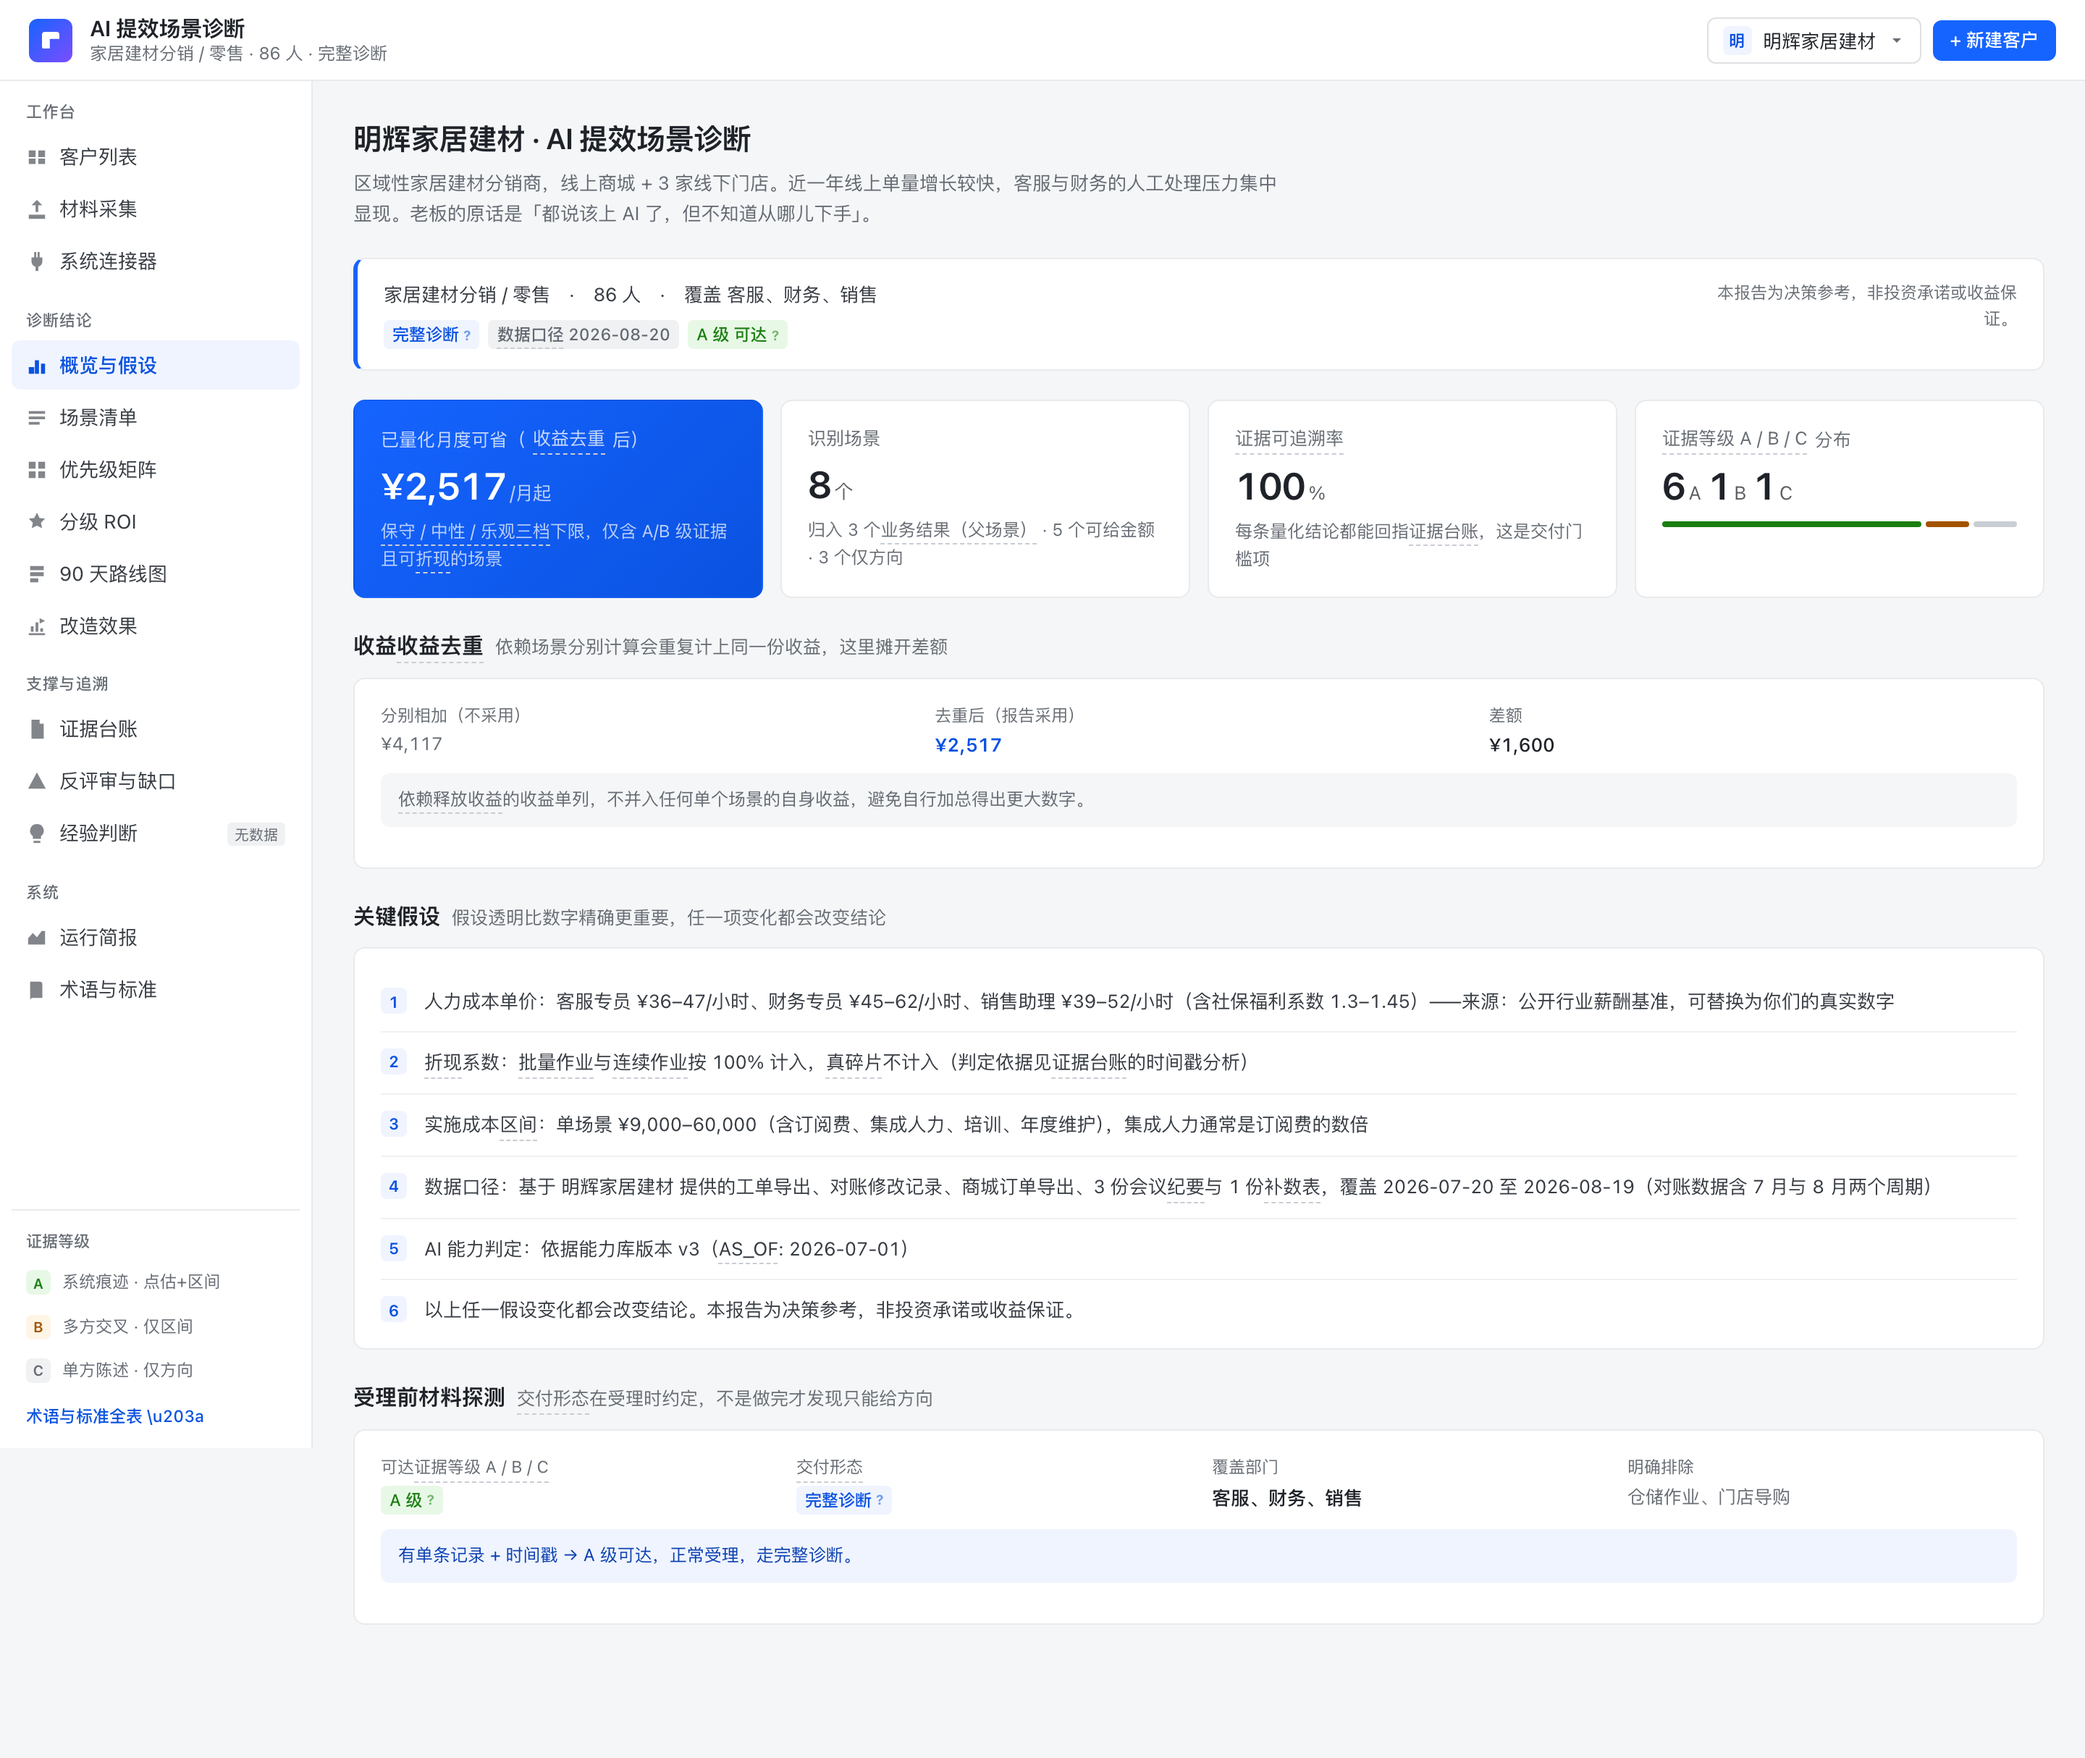
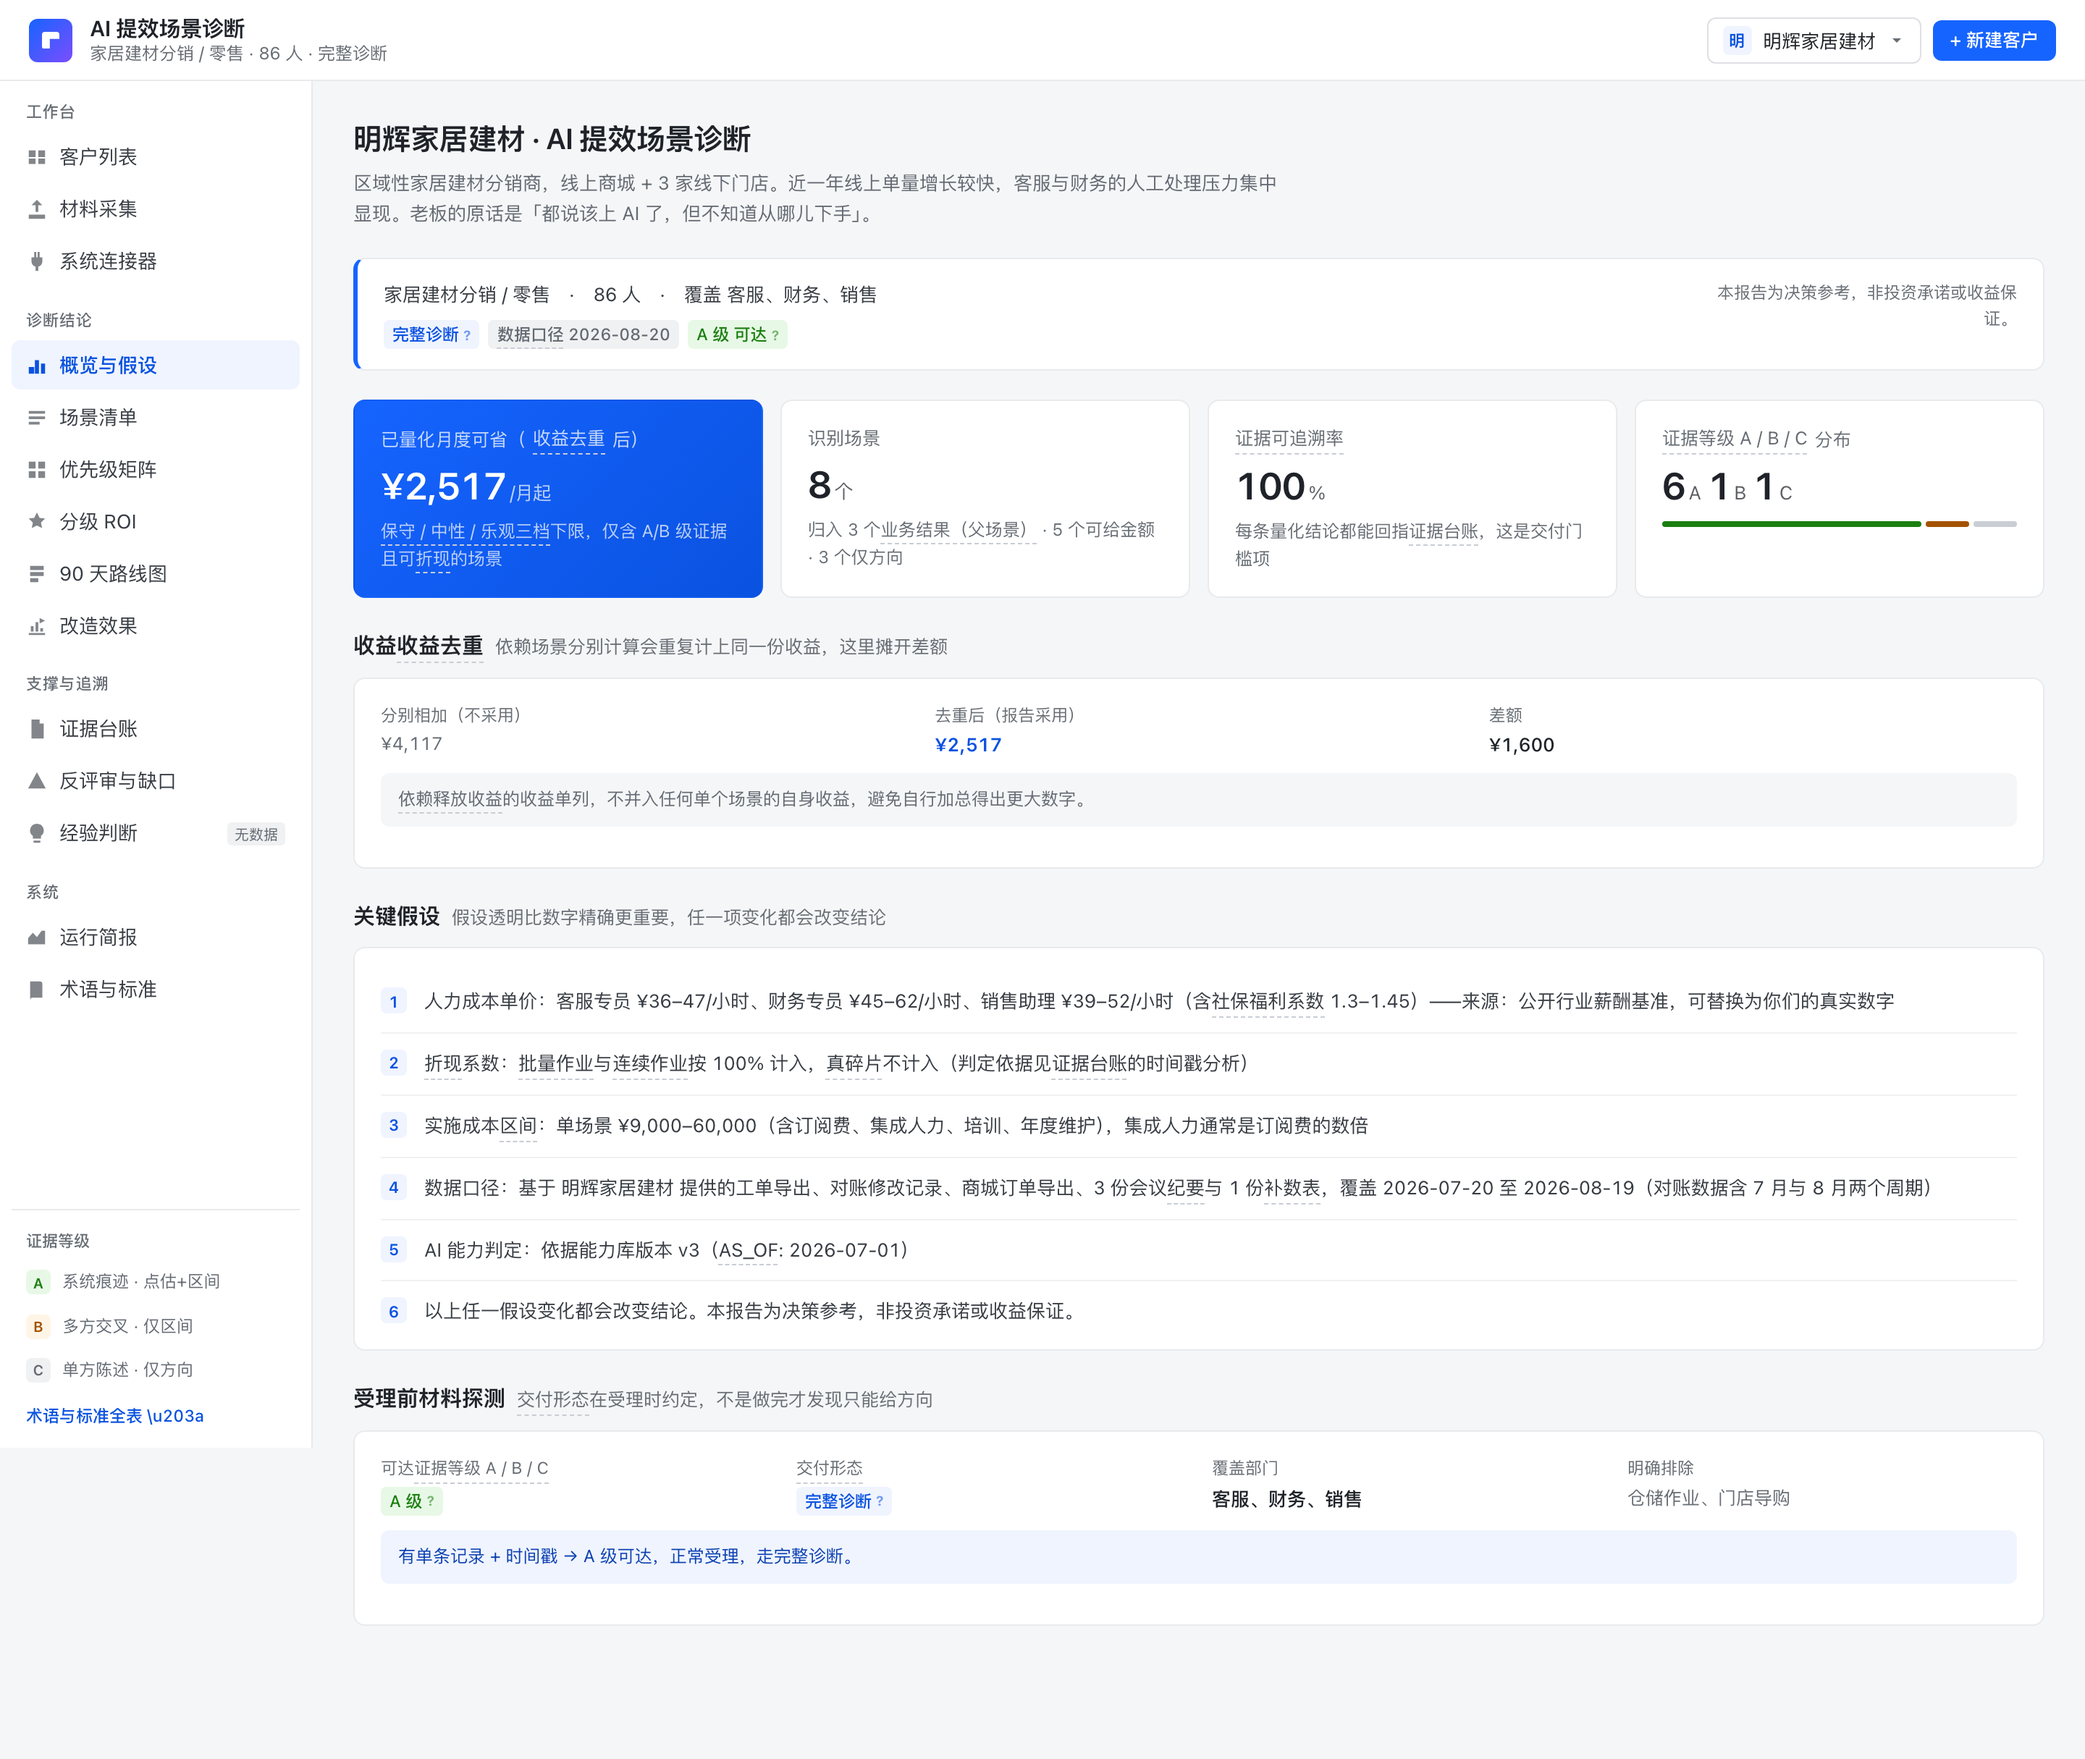
feat: 补上 6 个界面在用但术语表没收的词（38 → 44）
写脚本扫了一遍接口返回的全部文案，找"术语表没收但看起来像专有名词"的词。
排掉正则碎片与通用缩写（CSV/API/ERP 这类）后，剩 6 个是真缺口：

- 处理时长 / 首响 / 返工率 / 差异率：过程指标那条解释里点名用了它们，
  但它们自己查不到。「返工率」尤其值得单列——只看耗时会漏掉这块，
  单次很快但返工三次，实际成本翻倍
- 自动化率：ROI 计算与反评审都在用。按 100% 算收益是最常见的虚高来源，
  多数环节都留着人工兜底那一段
- 社保福利系数：关键假设第一条就出现。只按月薪折算工时会低估真实人力成本

顺手修了文档与测试的两处松动：

- README 四处写着「38 个术语」已过时。加了一条测试把 README 里所有
  「NN 个术语/词」与 glossary 实际条数钉在一起——写死的数字必然漂移，
  而文档漂移没有任何自动信号
- 两个浏览器用例用的是 `glTerms >= 35` 这种阈值断言，永远不会红：
  术语从 38 加到 44 它照样过，参考页漏渲染几条它也照样过。
  改成向 /api/glossary 取真值比对

验证：540 个 pytest 全绿、黄金集 12/12；
新词专项浏览器实测 7/7（收录完整性、每条都有「为什么值得看」、搜索可命中、
改造效果页可点、关键假设里的「社保福利系数」已自动接上）；
其余十二套用例 5+29+15+17+12+8+1+9+14+9+8+11 项回归全通过。
README 数字那条做过红-绿验证：写回 38 会红。

diff --git a/src/aiea/glossary.py b/src/aiea/glossary.py
@@ -118,6 +118,12 @@ GLOSSARY: dict[str, Term] = dict([
     _t("依赖释放", "依赖释放收益",
        "A 场景做完后，B 场景才能省下来的那部分。",
        "单独列出而不并入任何一方，避免任一场景的收益看起来虚高。"),
+    _t("自动化率", "自动化率",
+       "这件事里有多大比例能真的交给 AI，剩下的仍需人做或人核。",
+       "按 100% 算收益是最常见的虚高来源——多数环节都留着人工兜底那一段。"),
+    _t("社保福利系数", "社保福利系数",
+       "在月薪之外，企业实际还要多付的那部分倍数（社保、公积金、福利）。",
+       "只按月薪折算工时会低估真实人力成本，省下的钱看起来比实际少。"),
 
     # ---- 优先级与落地 ----
     _t("优先级矩阵", "优先级矩阵",
@@ -168,6 +174,18 @@ GLOSSARY: dict[str, Term] = dict([
     _t("样本量", "样本量",
        "算这个数字用了多少条记录。",
        "同样一个「平均 3 分钟」，基于 600 条和基于 5 条完全是两回事。"),
+    _t("处理时长", "处理时长",
+       "一件事从开始到办完花了多久，通常按两个时间戳的间隔算。",
+       "它是最常用的过程指标：降下来就是实打实的省时。"),
+    _t("首响", "首次响应时间",
+       "客户问过来之后，多久收到第一次回复。",
+       "客户的体感往往由这一项决定，而不是问题最终多久解决。"),
+    _t("返工率", "返工率",
+       "做完之后又得重做一遍的比例。",
+       "只看耗时会漏掉这块：单次很快但返工三次，实际成本翻倍。"),
+    _t("差异率", "差异率",
+       "两边数据对不上的比例，比如对账时账实不符的条目占比。",
+       "它衡量的是准确度而非速度——自动化做得快但错更多，是负收益。"),
 
     # ---- 安全 ----
     _t("注入", "指令注入",
@@ -198,7 +216,8 @@ GROUPS: tuple[tuple[str, str, tuple[str, ...]], ...] = (
     (
         "ROI 与钱",
         "钱怎么算出来的，以及为什么有的场景不给金额。",
-        ("ROI", "点估", "区间", "保守档", "回本周期", "去重", "依赖释放"),
+        ("ROI", "点估", "区间", "保守档", "回本周期", "去重", "依赖释放",
+         "自动化率", "社保福利系数"),
     ),
     (
         "优先级与落地",
@@ -218,7 +237,8 @@ GROUPS: tuple[tuple[str, str, tuple[str, ...]], ...] = (
     (
         "效果衡量",
         "改造做完之后，怎么证明真的有效。",
-        ("基线", "后测", "过程指标", "经营结果指标", "置信", "样本量"),
+        ("基线", "后测", "过程指标", "经营结果指标", "置信", "样本量",
+         "处理时长", "首响", "返工率", "差异率"),
     ),
     (
         "安全",

diff --git a/tests/test_web_glossary_contract.py b/tests/test_web_glossary_contract.py
@@ -490,3 +490,24 @@ def test_server_prose_is_wired_to_autoterm():
     # 反过来：这些字段不该还留着裸 esc()
     for field in ("d.adjudication_order", "d.conflict_rule", "r.known_limit"):
         assert f"esc({field})" not in APP_JS, f"{field} 仍是裸 esc()，术语无法点开"
+
+
+def test_readme_term_count_matches_glossary():
+    """README 里写死的术语数必须与 glossary 实际条数一致。
+
+    本会话踩到过：新增 6 个术语后，README 四处仍写着「38 个术语」。
+    写死的数字必然漂移，而文档漂移没有任何自动信号——新人照 README
+    对不上界面，就会怀疑是不是自己看错了版本。
+    """
+    from aiea.glossary import GLOSSARY
+
+    readme = (WEB.parent / "README.md").read_text(encoding="utf-8")
+    actual = len(GLOSSARY)
+
+    # README 中所有形如「NN 个术语」「NN 个词」的写法都必须等于实际条数
+    claims = re.findall(r"(\d+)\s*个(?:术语|词)", readme)
+    assert claims, "README 应至少写明一次术语总数"
+    wrong = sorted({c for c in claims if int(c) != actual})
+    assert not wrong, (
+        f"README 写着 {wrong} 个术语，实际是 {actual} 个——文档与代码不一致"
+    )

diff --git a/README.md b/README.md
@@ -74,7 +74,7 @@ PYTHONPATH=src .venv/bin/python -m aiea.evals     # 冻结黄金集 12 例
 | 08 反评审与缺口 | 独立视角的最强反驳 + 3 项未获取材料及其影响 |
 | 附 经验判断 | 物理隔离的专家判断区，按设计不含任何金额；**每条标明来源**（顾问定稿 / 模型现场生成） |
 | 系 运行简报 | 内部指标翻译成人话；注入拦截计数；反馈入口 |
-| 系 术语与标准 | 38 个术语 + 六张分级标准表，不依赖客户数据，随时可查 |
+| 系 术语与标准 | 44 个术语 + 六张分级标准表，不依赖客户数据，随时可查 |
 
 **关键：所有数字都是算出来的，不是写死的。** 场景卡的频次、耗时、作业形态、
 证据等级、ROI 全部由 `evidence.py` / `roi.py` 从 `seed/clients/minghui/` 的原始痕迹推导——
@@ -190,7 +190,7 @@ IM 刻意声明为 C 级：**把它标成 A 级会让下游误以为能量化，
   `tenant`、`playbook`、`S0–S5`、`metric_probe` 等登记在 `glossary.INTERNAL_ONLY`，
   由测试静态扫描 `web/` 把守。材料角色的 `R1–R5` 同理——界面只写
   「带时间的明细导出 —— 首选，可达 A 级」，编号仅作为 value 传回服务端。
-- **领域术语保留，但必须可查**：38 个词，每个都写两件事——一句话解释（≤120 字）
+- **领域术语保留，但必须可查**：44 个词，每个都写两件事——一句话解释（≤120 字）
   与「为什么这个词值得你关心」。只说「它是什么」不够：用户真正需要知道的是
   这个词会怎么影响他要做的决定。
 
@@ -208,7 +208,7 @@ IM 刻意声明为 C 级：**把它标成 A 级会让下游误以为能量化，
 | ROI 表头的 `保守→中性` | 点开三档口径差在哪 |
 | 侧栏左下角等级图例 | 任一级都能点开判定标准 |
 | 服务端下发的成文段落 | 关键假设、裁决优先级、受理说明等整段中文，其中的术语自动接上解释入口 |
-| 「术语与标准」页 | 38 个术语按 8 个主题分组 + 六张标准表全文，支持搜索 |
+| 「术语与标准」页 | 44 个术语按 8 个主题分组 + 六张标准表全文，支持搜索 |
 
 最后一条容易被漏掉：界面标签好办，逐个包一层就行；但「关键假设」「裁决优先级」
 「反评审隔离说明」这些是**服务端下发的整段中文**，前端拿到的是字符串，
@@ -337,7 +337,7 @@ n400 文字落在那层底色上，可是没有任何机制拦住以后有人这
 | `connectors/vendors.py` | 19 个厂商模板：钉钉/飞书/企微/金蝶/Zendesk/有赞… | §4 |
 | `connector_intake.py` | L1 拉取转 ParsedMaterial + L0/L1 交叉互校 | §4、§3.1 |
 | `measure.py` | 效果衡量：无改造前基线一律不给改善率 | §19.4、§9.3 |
-| `glossary.py` | 38 个术语 + 六张分级标准表；内部术语登记为禁上界面 | §12.1 |
+| `glossary.py` | 44 个术语 + 六张分级标准表；内部术语登记为禁上界面 | §12.1 |
 
 ## 工程纪律（测试里锁死的部分）
 
